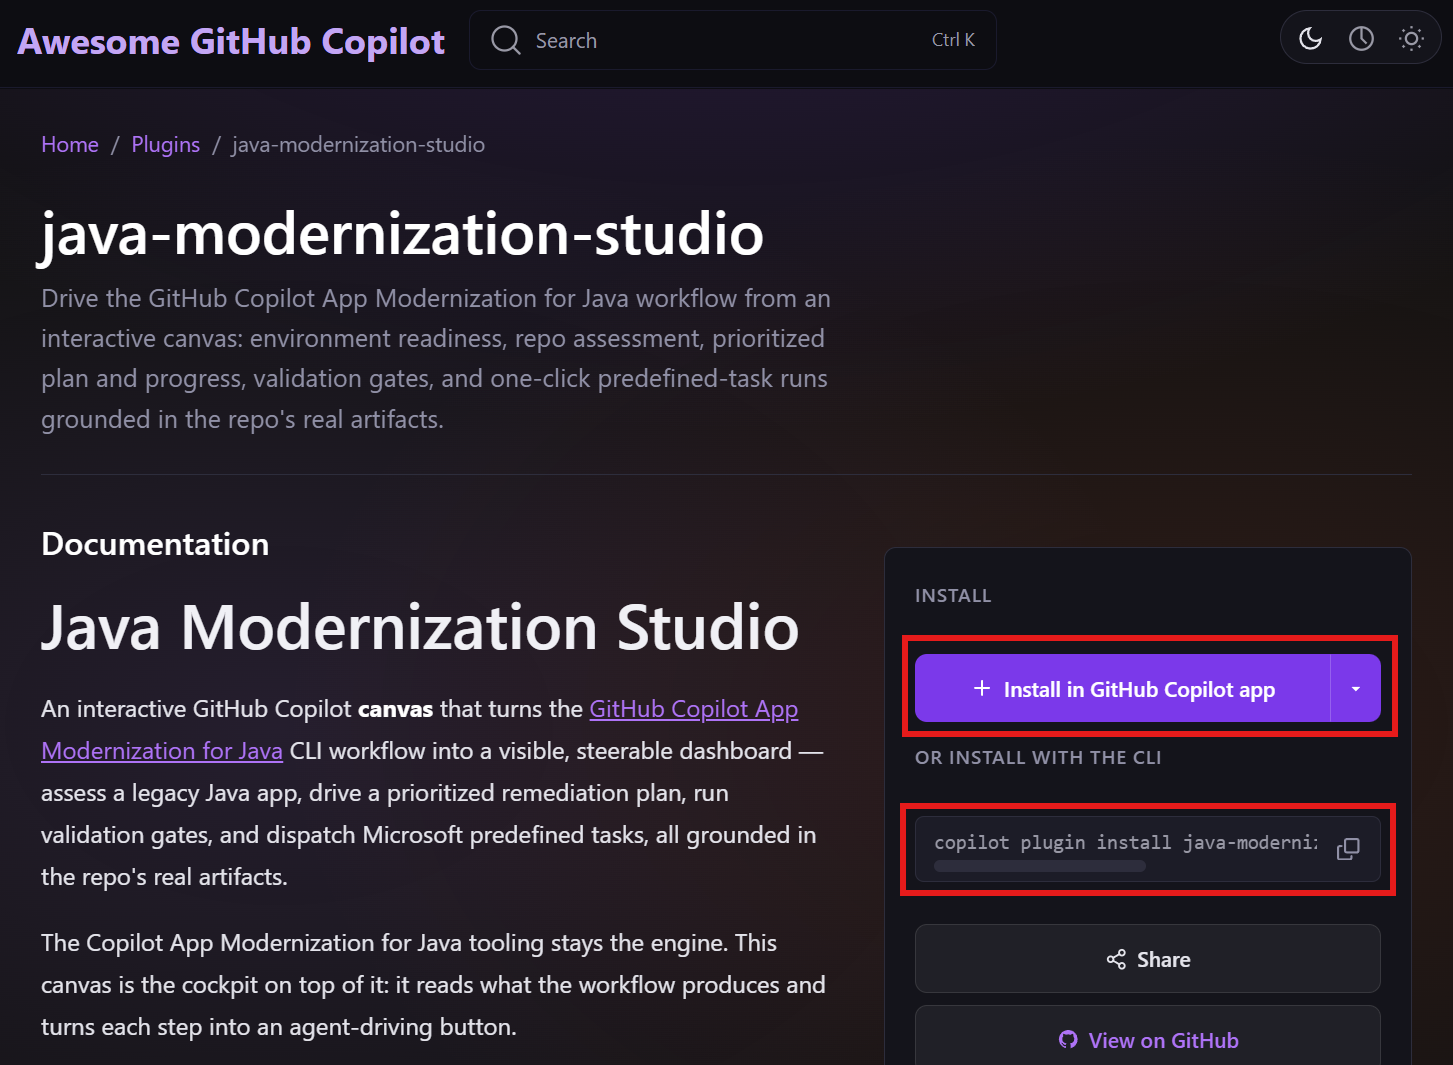
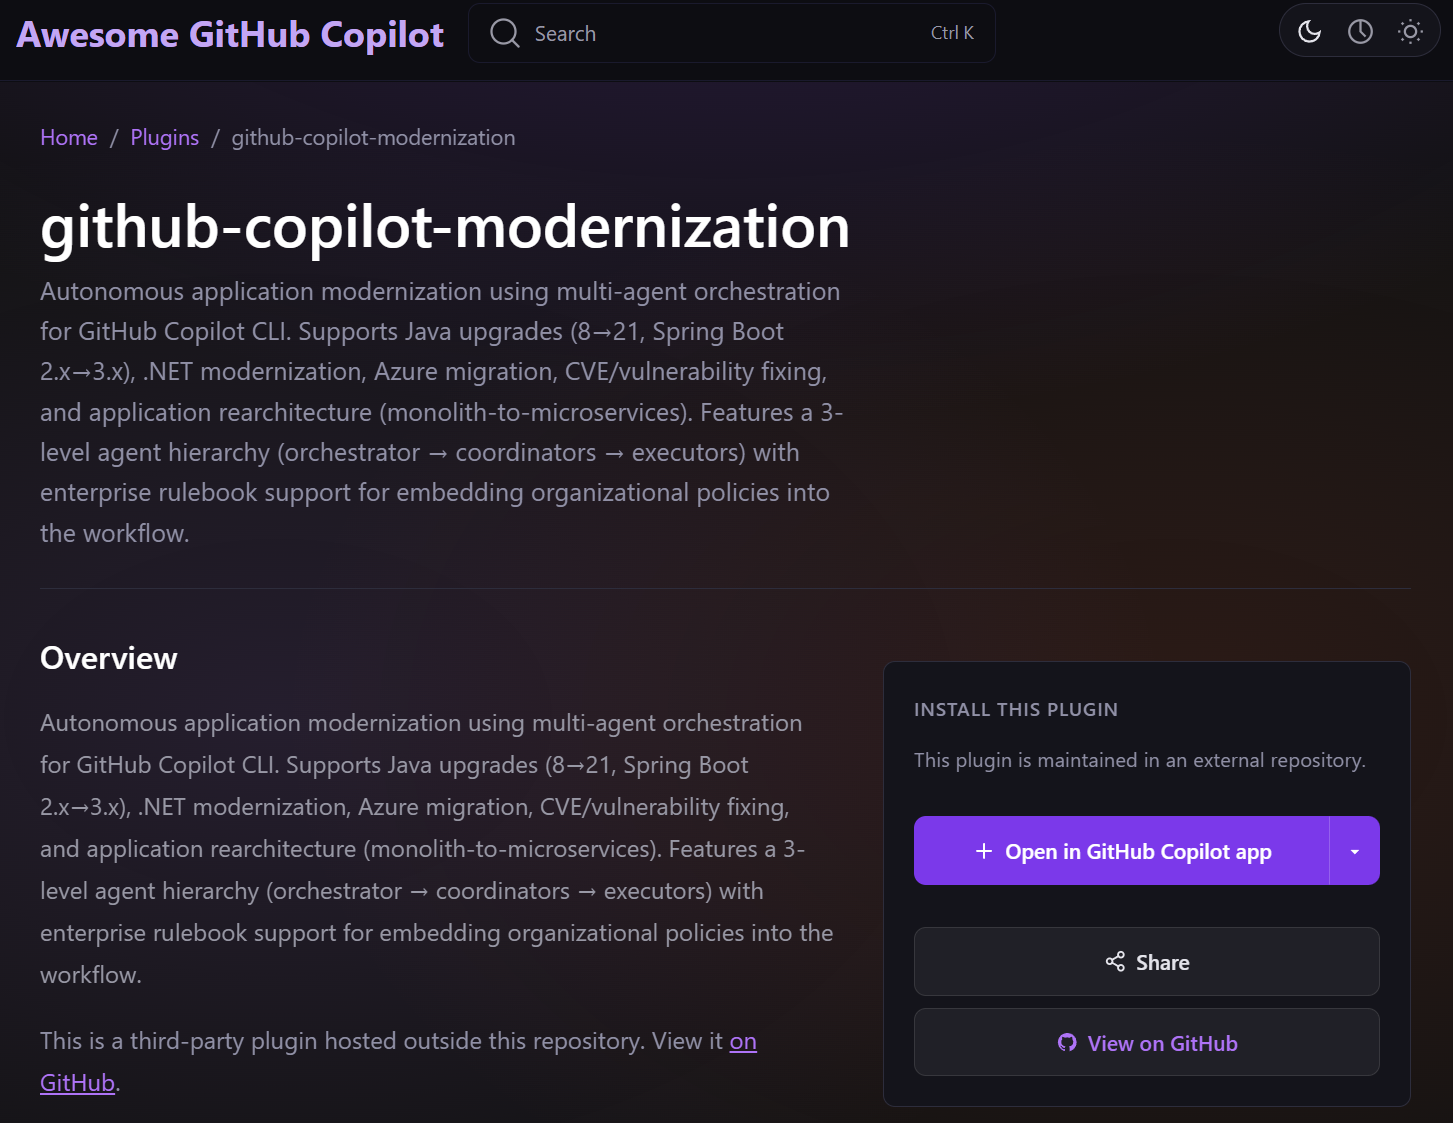
Refactor code structure for improved readability and maintainability

diff --git a/docs/workshop.md b/docs/workshop.md
@@ -147,35 +147,20 @@ before changing any code. The goal is to establish a trustworthy baseline,
 identify modernization risks and opportunities, define a target state, and
 produce an actionable plan.
 
-## Learning objectives
-
-By the end of this level, you will be able to:
-
-- describe the application's current architecture, dependencies, integrations,
-  and operational constraints;
-- discover reusable GitHub Copilot customizations in the Awesome Copilot
-  catalog and install a plugin;
-- use GitHub Copilot and Java Modernization Studio to assess modernization
-  readiness;
-- validate AI-generated findings against evidence in the repository;
-- prioritize findings by impact, risk, dependency, and effort; and
-- create a modernization plan with measurable validation criteria.
-
 ## Before you begin
 
 You need:
 
 - the application repository opened at the Java project root;
-- the GitHub Copilot app, signed in to your GitHub account;
-- [GitHub Copilot App Modernization for Java](https://learn.microsoft.com/azure/developer/java/migration/migrate-github-copilot-app-modernization-for-java),
-  which provides the underlying modernization workflow;
+- the GitHub Copilot app or
+  [GitHub Copilot CLI](https://github.com/github/copilot-cli), installed and
+  signed in to your GitHub account;
 - JDK 17 or later, Maven 3.6 or later, Node.js 18 or later, and Git; and
 - Docker and the Azure CLI if you want the assessment to include container and
   Azure readiness.
 
 Do not start upgrading dependencies or editing application code yet. Level 1
-is complete when the findings and plan have been reviewed, not when the
-migration has been implemented.
+is complete when the findings and plan have been reviewed.
 
 ## Step 1: Discover Awesome Copilot and install the plugin
 
@@ -193,48 +178,56 @@ Identify the purpose of each customization type before continuing:
 | Skills | Reusable domain knowledge, procedures, and supporting resources that Copilot can load when relevant. |
 | Plugins | Installable bundles of agents, skills, commands, hooks, or extensions for a complete workflow. |
 
-Open **Plugins** in the catalog and search for **Java Modernization Studio**.
-Before installing it, open its details and answer the following questions:
+Open **Plugins** in the catalog and search for
+[github-copilot-modernization](https://awesome-copilot.github.com/plugin/github-copilot-modernization/).
+This Microsoft-maintained plugin provides autonomous modernization for Java and
+.NET applications through a hierarchy of orchestrator, coordinator, and
+executor agents. Before installing it, open its [details](https://github.com/microsoft/github-copilot-modernization/tree/main/plugins/github-copilot-modernization)  and answer the following
+questions:
 
-1. What problem does the plugin solve?
-2. Which underlying modernization tooling does it drive?
-3. Which repository artifacts does it read and generate?
-4. Which commands or tools can it run?
+1. Which modernization scenarios and application languages does it support?
+2. Which agent can a user invoke directly?
+3. Where does it write assessment and planning artifacts?
+4. How can an enterprise rulebook constrain its recommendations?
 
 You can install the plugin using either the GitHub Copilot app or the CLI.
 
 **Option 1: Install from the GitHub Copilot app**
 
-On the **Java Modernization Studio** details page, click **Install** and confirm
-the installation if prompted.
-
+On the plugin details page, select **Open in GitHub Copilot app** and confirm theinstallation when prompted.
 ![alt text](assets/image.png)
+![alt text](assets/image_1.png)
+
+The plugin is installed under the **awesome-copilot** marketplace. Expand the
+marketplace to view all available plugins and activate or deactivate them as
+needed.
+
+You can also view the installed plugin's skills by opening the **Skills** tab in the app, and filter by plugin.
 
 **Option 2: Install with the CLI**
 
-In the terminal provided by the GitHub Copilot app, run:
+Follow the plugin repository's installation instructions:
 
 ```bash
-copilot plugin install java-modernization-studio@awesome-copilot
+copilot plugin marketplace add microsoft/github-copilot-modernization
+copilot plugin install github-copilot-modernization@github-copilot-modernization
 ```
 
-For most current installations, the marketplace is registered automatically.
-If Github Copilot reports that `awesome-copilot` is unknown, register it once and retry:
+Verify that the marketplace and plugin are available:
 
 ```bash
-copilot plugin marketplace add github/awesome-copilot
-copilot plugin install java-modernization-studio@awesome-copilot
+copilot plugin marketplace list
+copilot plugin list
 ```
 
-Reload or restart the GitHub Copilot app if requested. Verify the installation
-by asking Github Copilot to open the plugin without starting an assessment yet:
+The plugin exposes one user-invocable agent, `modernize`. The coordinator and
+executor agents are internal and are selected automatically by the
+orchestrator. You will start the agent from the application repository in Step
+4 with:
 
-```text
-Open the Java Modernization Studio canvas for this repository.
+```bash
+copilot --agent=github-copilot-modernization:modernize
 ```
-
-You should see the **Overview**, **Readiness**, **Assessment**, **Plan &
-Progress**, **Validation**, and **Tasks** views.
 
 ## Step 2: Establish the current baseline
 
@@ -291,33 +284,54 @@ will be compared with the proposed target architecture later.
 
 ## Step 3: Check modernization readiness
 
-Open the Java Modernization Studio canvas for the project and run its
-Environment Doctor:
+The plugin discovers Java projects from a `pom.xml` or Gradle build file. From
+the application repository root, confirm that the build file is present and
+check the required tools:
 
-```text
-Open the Java Modernization Studio canvas for this repository and run a readiness check.
+```bash
+java -version
+mvn -version
+node --version
+npm --version
+git --version
 ```
 
-Review the result for JDK, Maven, Git, Docker, and Azure CLI. Resolve
-only missing tooling that prevents the assessment from running. Document
-optional tooling that will be needed in later levels.
+If container or Azure migration is in scope, also run:
 
-![alt text](assets/image-1.png)
+```bash
+docker --version
+az version
+```
+
+Resolve only missing tooling that prevents assessment. Record optional tooling
+that will be needed in later levels.
 
 ## Step 4: Run the assessment
 
-From the canvas, start **Assessment** and ask the agent to generate the
-assessment and planning artifacts:
+Open the application repository in the GitHub Copilot app and start the
+installed `modernize` agent, or start the modernization orchestrator from the
+repository root with GitHub Copilot CLI:
 
-![alt text](assets/image-3.png)
+```bash
+copilot --agent=github-copilot-modernization:modernize
+```
+
+Ask it to stop after assessment so that Level 1 remains review-only:
 
 ```text
-Assess this Java application for modernization. Ground every finding in repository
-evidence. Generate .appmod/assessment.json and prioritized plan.md and progress.md
-files, but do not modify application code or execute the plan.
+Assess this Java application for migration to Java 25, upgrading Spring Boot, and remediating security vulnerabilities.
 ```
+
+Review the generated assessment at
+`.github/modernize/assessment/report.json`. The generic prompt `modernize my
+application` runs assessment, planning, and execution automatically, so do not
+use it during this level.
+
 ## Step 5: Validate and refine the findings
 
+Compare each material finding in the assessment with the baseline evidence.
+Correct unsupported assumptions, add missed dependencies and constraints, and
+record which recommendations you accept, reject, or defer before planning.
 
 ## Step 6: Define the target state
 
@@ -331,7 +345,21 @@ Document:
 
 ## Step 7: Build the modernization plan
 
-Use the validated findings and target state to refine `plan.md`.
+In the same orchestrator session, ask the plugin to turn the validated
+assessment and target-state decisions into a plan without executing it:
+
+```text
+Using .github/modernize/assessment/report.json and the target-state decisions we
+agreed, create a prioritized executable modernization plan named
+order-service-modernization. Include validation criteria for every task. Stop
+after planning; do not execute tasks, modify application code, or commit changes.
+```
+
+Review `.github/modernize/order-service-modernization/plan.md` and
+`.github/modernize/order-service-modernization/tasks.json`. Confirm that task
+dependencies, risk, scope, and validation criteria match the agreed target
+state. In Level 2, you will encode organizational guardrails under
+`.github/modernize/rulebook/` and regenerate the plan.
 ---
 
 # Level 2: Setup the guardrails
